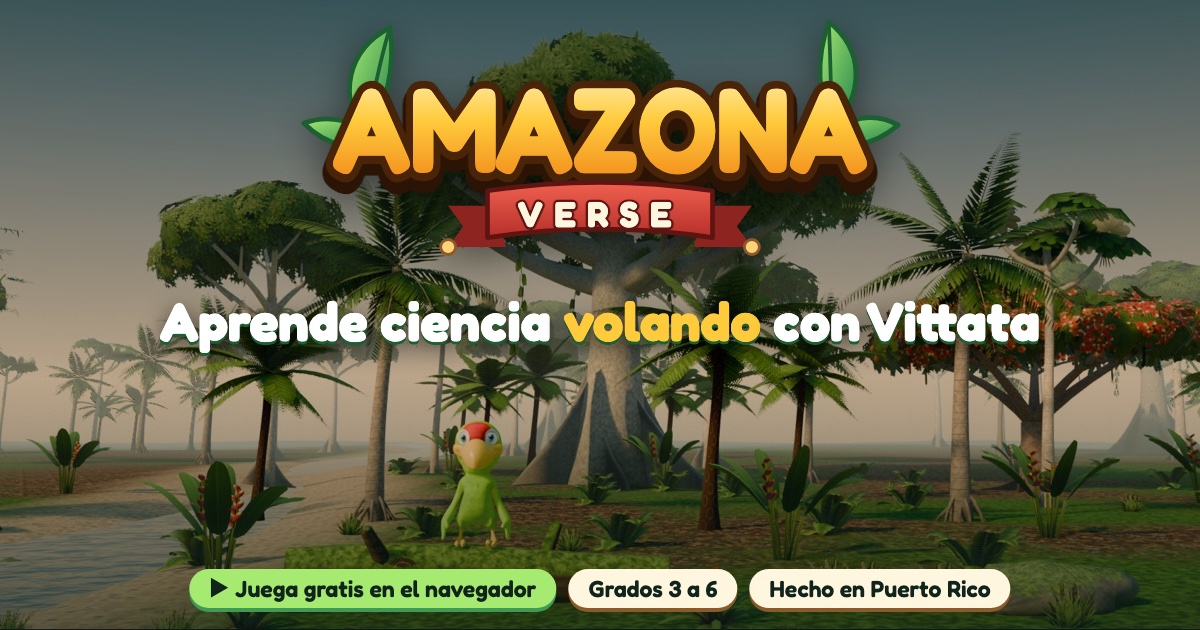
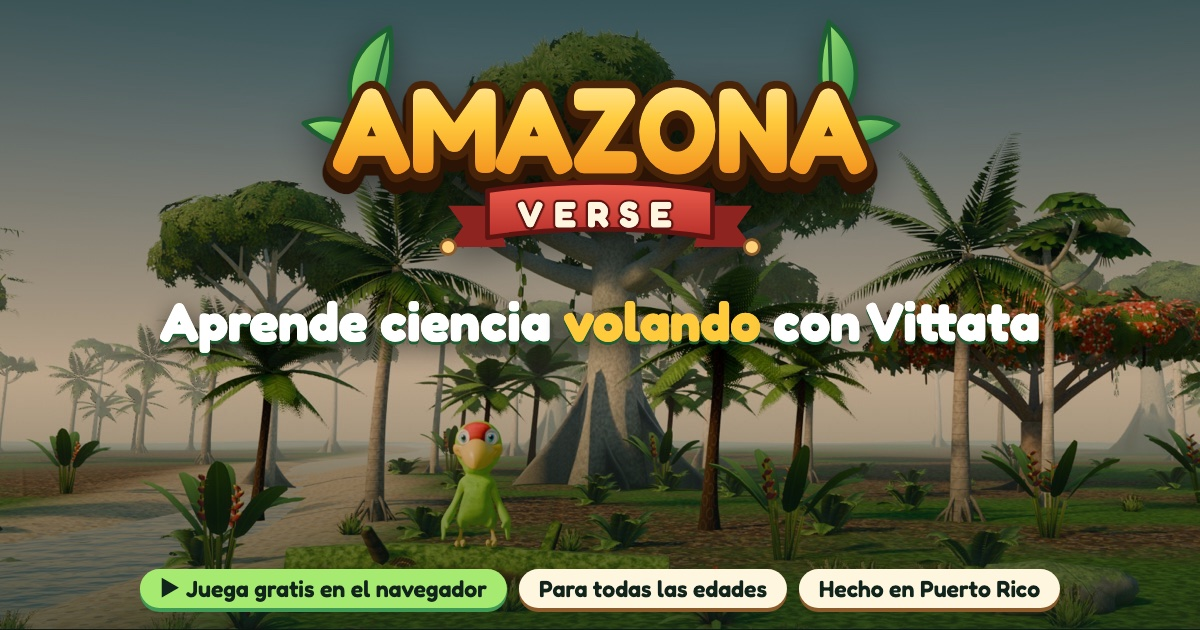
Público abierto: «para todas las edades» en lugar de grados 3 a 6 (landing, metas, OG, README)

Changed region(s): [[0.0925, 0.9048, 0.8942, 0.9952]]

diff --git a/web/index.html b/web/index.html
@@ -5,11 +5,11 @@
 <meta name="viewport" content="width=device-width, initial-scale=1, viewport-fit=cover">
 <title>Amazona Verse</title>
 <meta name="claude:viewport-fit-sides" content="cover">
-<meta name="description" content="Amazona Verse: aventura 3D en el navegador para grados 3 a 6. Ciencias alineadas al DEPR 2022 y NGSS, con Vittata, la cotorra puertorriqueña. Hecho en Puerto Rico.">
+<meta name="description" content="Amazona Verse: aventura 3D en el navegador para todas las edades, con Vittata, la cotorra puertorriqueña. Ciencia, naturaleza y cultura de Puerto Rico. Hecho en Puerto Rico.">
 <meta name="theme-color" content="#10241c">
 <meta property="og:type" content="website">
 <meta property="og:title" content="Amazona Verse · Aprende ciencia volando con Vittata">
-<meta property="og:description" content="Aventura 3D en el navegador para grados 3 a 6. Ciencias DEPR 2022 y NGSS. Sin instalar, sin anuncios, sin cuentas.">
+<meta property="og:description" content="Aventura 3D en el navegador para todas las edades. Ciencia y naturaleza de Puerto Rico con Vittata. Sin instalar, sin anuncios, sin cuentas.">
 <meta property="og:url" content="https://amazona-verse.vercel.app/">
 <meta property="og:site_name" content="Amazona Verse">
 <meta property="og:image" content="https://amazona-verse.vercel.app/assets/og.jpg">
@@ -20,7 +20,7 @@
 <meta property="og:locale:alternate" content="en_US">
 <meta name="twitter:card" content="summary_large_image">
 <meta name="twitter:title" content="Amazona Verse · Aprende ciencia volando con Vittata">
-<meta name="twitter:description" content="Aventura 3D en el navegador para grados 3 a 6. Ciencias DEPR 2022 y NGSS. Sin instalar, sin anuncios, sin cuentas.">
+<meta name="twitter:description" content="Aventura 3D en el navegador para todas las edades. Ciencia y naturaleza de Puerto Rico con Vittata. Sin instalar, sin anuncios, sin cuentas.">
 <meta name="twitter:image" content="https://amazona-verse.vercel.app/assets/og.jpg">
 <link rel="canonical" href="https://amazona-verse.vercel.app/">
 <link rel="icon" href="favicon.ico" sizes="32x32">
@@ -769,8 +769,8 @@ h1, h2, h3, h4 { font-family: var(--font-display); font-weight: 700; line-height
         <span data-l="es">Aprende ciencia <span class="gold">volando</span> con Vittata</span>
         <span data-l="en">Learn science by <span class="gold">flying</span> with Vittata</span>
       </h1>
-      <p class="hero-lead" data-l="es">Una aventura 3D en el navegador para grados 3 a 6. Tus estudiantes exploran un bosque lleno de flora de Puerto Rico, siguen el camino del agua y deciden con evidencia dónde construir un refugio.</p>
-      <p class="hero-lead" data-l="en">A 3D browser adventure for grades 3 to 6. Your students explore a forest full of Puerto Rican plants, follow the path of water and use evidence to decide where to build a shelter.</p>
+      <p class="hero-lead" data-l="es">Una aventura 3D en el navegador para todas las edades. Explora un bosque lleno de flora de Puerto Rico, sigue el camino del agua y decide con evidencia dónde construir un refugio.</p>
+      <p class="hero-lead" data-l="en">A 3D browser adventure for all ages. Explore a forest full of Puerto Rican plants, follow the path of water and use evidence to decide where to build a shelter.</p>
       <div class="hero-actions">
         <a class="btn" href="juego/" data-icon="play"><span data-l="es">Jugar ahora</span><span data-l="en">Play now</span></a>
         <a class="btn ghost" href="#escuelas" data-icon="arrow"><span data-l="es">Pedir piloto gratis</span><span data-l="en">Request a free pilot</span></a>
@@ -801,7 +801,7 @@ h1, h2, h3, h4 { font-family: var(--font-display); font-weight: 700; line-height
 <section class="facts" aria-label="Lo esencial" data-en-aria-label="At a glance">
   <div class="wrap">
     <ul class="facts-list">
-      <li><span class="ic" data-icon="star"></span><strong><span data-l="es">Grados 3 a 6</span><span data-l="en">Grades 3 to 6</span></strong><span class="t"><span data-l="es">Ciencias de primaria</span><span data-l="en">Elementary science</span></span></li>
+      <li><span class="ic" data-icon="star"></span><strong><span data-l="es">Para todas las edades</span><span data-l="en">For all ages</span></strong><span class="t"><span data-l="es">Ciencia para aprender jugando</span><span data-l="en">Science you learn by playing</span></span></li>
       <li><span class="ic" data-icon="book"></span><strong><span data-l="es">Ciencias DEPR 2022 y NGSS</span><span data-l="en">PR DE 2022 and NGSS science</span></strong><span class="t"><span data-l="es">Objetivos con evidencia en el juego</span><span data-l="en">Goals with in-game evidence</span></span></li>
       <li><span class="ic" data-icon="globe"></span><strong><span data-l="es">Español e inglés</span><span data-l="en">Spanish and English</span></strong><span class="t"><span data-l="es">O bilingüe, como tu salón</span><span data-l="en">Or bilingual, like your class</span></span></li>
       <li><span class="ic" data-icon="laptop"></span><strong><span data-l="es">Sin instalar</span><span data-l="en">Nothing to install</span></strong><span class="t"><span data-l="es">Corre en el navegador</span><span data-l="en">Runs in the browser</span></span></li>
@@ -974,7 +974,7 @@ h1, h2, h3, h4 { font-family: var(--font-display); font-weight: 700; line-height
 
     <div class="goals-head">
       <h3><span data-l="es">Seis objetivos alineados a los estándares</span><span data-l="en">Six goals aligned to standards</span></h3>
-      <span class="chip paper-chip"><span data-l="es">Grados 3 a 6</span><span data-l="en">Grades 3 to 6</span></span>
+      <span class="chip paper-chip"><span data-l="es">Para todas las edades</span><span data-l="en">For all ages</span></span>
     </div>
     <div class="goals-cols" aria-hidden="true"><span></span><span data-l="es">El estudiante…</span><span data-l="en">The student…</span><span>DEPR 2022</span><span>NGSS</span></div>
     <ol class="goals">
@@ -1312,7 +1312,7 @@ h1, h2, h3, h4 { font-family: var(--font-display); font-weight: 700; line-height
         </ul>
         <h4><span data-l="es">Te pedimos</span><span data-l="en">We ask you to</span></h4>
         <ul class="ask">
-          <li data-icon="arrow"><span data-l="es">Usarlo con un grupo de 3.º a 6.º grado</span><span data-l="en">Use it with a 3rd to 6th grade group</span></li>
+          <li data-icon="arrow"><span data-l="es">Usarlo con tu grupo o tu clase</span><span data-l="en">Use it with your group or class</span></li>
           <li data-icon="arrow"><span data-l="es">Contarnos qué funcionó y qué no</span><span data-l="en">Tell us what worked and what didn't</span></li>
         </ul>
         <a class="btn" href="#contacto" data-icon="arrow"><span data-l="es">Pedir piloto gratis</span><span data-l="en">Request a free pilot</span></a>
@@ -1394,7 +1394,7 @@ h1, h2, h3, h4 { font-family: var(--font-display); font-weight: 700; line-height
     <div class="press-grid">
       <dl class="factsheet">
         <dt><span data-l="es">Qué es</span><span data-l="en">What</span></dt><dd><span data-l="es">Juego educativo 3D que se juega en el navegador</span><span data-l="en">An educational 3D game played in the browser</span></dd>
-        <dt><span data-l="es">Para quién</span><span data-l="en">For</span></dt><dd><span data-l="es">Estudiantes de 3.º a 6.º grado, sus maestros y sus familias</span><span data-l="en">3rd to 6th grade students, their teachers and families</span></dd>
+        <dt><span data-l="es">Para quién</span><span data-l="en">For</span></dt><dd><span data-l="es">Jugadores de todas las edades, sus maestros y sus familias</span><span data-l="en">Players of all ages, their teachers and families</span></dd>
         <dt><span data-l="es">Protagonista</span><span data-l="en">Hero</span></dt><dd><span data-l="es">Vittata, una cotorra puertorriqueña inventora</span><span data-l="en">Vittata, a Puerto Rican parrot and inventor</span></dd>
         <dt><span data-l="es">Estado</span><span data-l="en">Status</span></dt><dd><span data-l="es">Prototipo jugable del capítulo 1 (octubre de 2026)</span><span data-l="en">Playable prototype of Chapter 1 (October 2026)</span></dd>
         <dt><span data-l="es">Idiomas</span><span data-l="en">Languages</span></dt><dd><span data-l="es">Español e inglés</span><span data-l="en">Spanish and English</span></dd>
@@ -1402,8 +1402,8 @@ h1, h2, h3, h4 { font-family: var(--font-display); font-weight: 700; line-height
       </dl>
       <div class="copybox on-paper">
         <h3><span data-l="es">Texto para medios</span><span data-l="en">Boilerplate</span></h3>
-        <p class="text" id="bp-es" data-l="es">Amazona Verse es un juego educativo 3D que se juega en el navegador, creado en Puerto Rico. Los estudiantes de 3.º a 6.º grado acompañan a Vittata, una cotorra puertorriqueña inventora, a proteger su comunidad después de una tormenta, mientras aprenden ciencias alineadas a los estándares del Departamento de Educación de Puerto Rico (2022) y NGSS. Sin anuncios, sin chat y sin datos personales del estudiante. Equipo Amazona Verse · Puerto Rico.</p>
-        <p class="text" id="bp-en" data-l="en">Amazona Verse is an educational 3D game played in the browser, made in Puerto Rico. Students in grades 3 to 6 join Vittata, a Puerto Rican parrot and inventor, to protect her community after a storm while they learn science aligned to the Puerto Rico Department of Education (2022) standards and NGSS. No ads, no chat and no student personal data. Amazona Verse team · Puerto Rico.</p>
+        <p class="text" id="bp-es" data-l="es">Amazona Verse es un juego educativo 3D que se juega en el navegador, creado en Puerto Rico. Jugadores de todas las edades acompañan a Vittata, una cotorra puertorriqueña inventora, a proteger su comunidad después de una tormenta, mientras aprenden ciencias alineadas a los estándares del Departamento de Educación de Puerto Rico (2022) y NGSS. Sin anuncios, sin chat y sin datos personales del estudiante. Equipo Amazona Verse · Puerto Rico.</p>
+        <p class="text" id="bp-en" data-l="en">Amazona Verse is an educational 3D game played in the browser, made in Puerto Rico. Players of all ages join Vittata, a Puerto Rican parrot and inventor, to protect her community after a storm while they learn science aligned to the Puerto Rico Department of Education (2022) standards and NGSS. No ads, no chat and no student personal data. Amazona Verse team · Puerto Rico.</p>
         <div class="copy-row">
           <button class="btn sm paperish" type="button" data-copy-es="bp-es" data-copy-en="bp-en" data-icon="copy"><span data-l="es">Copiar texto</span><span data-l="en">Copy text</span></button>
           <span class="copied" aria-live="polite"></span>

diff --git a/index.html b/index.html
@@ -3,12 +3,12 @@
 <meta charset="utf-8">
 <meta name="viewport" content="width=device-width, initial-scale=1, viewport-fit=cover">
 <title>Amazona Verse</title>
-<meta name="description" content="Juega el capítulo 1 de Amazona Verse: vuela con Vittata por El Yunque y aprende ciencia. Grados 3 a 6, gratis en el navegador.">
+<meta name="description" content="Juega el capítulo 1 de Amazona Verse: vuela con Vittata por El Yunque y aprende ciencia. Para todas las edades, gratis en el navegador.">
 <meta property="og:type" content="website">
 <meta property="og:url" content="https://amazona-verse.vercel.app/juego/">
 <meta property="og:site_name" content="Amazona Verse">
 <meta property="og:title" content="Juega Amazona Verse · Capítulo 1">
-<meta property="og:description" content="Vuela con Vittata por El Yunque y aprende ciencia. Grados 3 a 6, gratis en el navegador.">
+<meta property="og:description" content="Vuela con Vittata por El Yunque y aprende ciencia. Para todas las edades, gratis en el navegador.">
 <meta property="og:image" content="https://amazona-verse.vercel.app/assets/og.jpg">
 <meta property="og:image:width" content="1200">
 <meta property="og:image:height" content="630">

diff --git a/tools/og/og.html b/tools/og/og.html
@@ -42,5 +42,5 @@ html,body{margin:0;width:1200px;height:630px;overflow:hidden;background:#10241c}
         <text x="320" y="219" text-anchor="middle" font-family="Fredoka, 'Trebuchet MS', sans-serif" font-weight="700" font-size="38" letter-spacing="12" fill="#fff6e0" stroke="#5e1512" stroke-width="6" stroke-linejoin="round" paint-order="stroke">VERSE</text>
       </svg></div>
 <div class="lema">Aprende ciencia <b>volando</b> con Vittata</div>
-<div class="pie"><span class="verde">▶ Juega gratis en el navegador</span><span>Grados 3 a 6</span><span>Hecho en Puerto Rico</span></div>
+<div class="pie"><span class="verde">▶ Juega gratis en el navegador</span><span>Para todas las edades</span><span>Hecho en Puerto Rico</span></div>
 </div></body></html>

diff --git a/README.md b/README.md
@@ -1,6 +1,6 @@
 # Amazona Verse
 
-Juego educativo 3D para el navegador, para escuelas (grados 3 a 6). Lo protagoniza Vittata, la cotorra puertorriqueña.
+Juego educativo 3D para el navegador, para todas las edades: familias, escuelas y curiosos de la naturaleza. Lo protagoniza Vittata, la cotorra puertorriqueña.
 
 Capítulo 1 jugable: **"El día que el cielo se rompió"** (guion de Kelvin García). Ciencias alineadas al DEPR 2022 y NGSS, sin cuentas ni anuncios.
 
